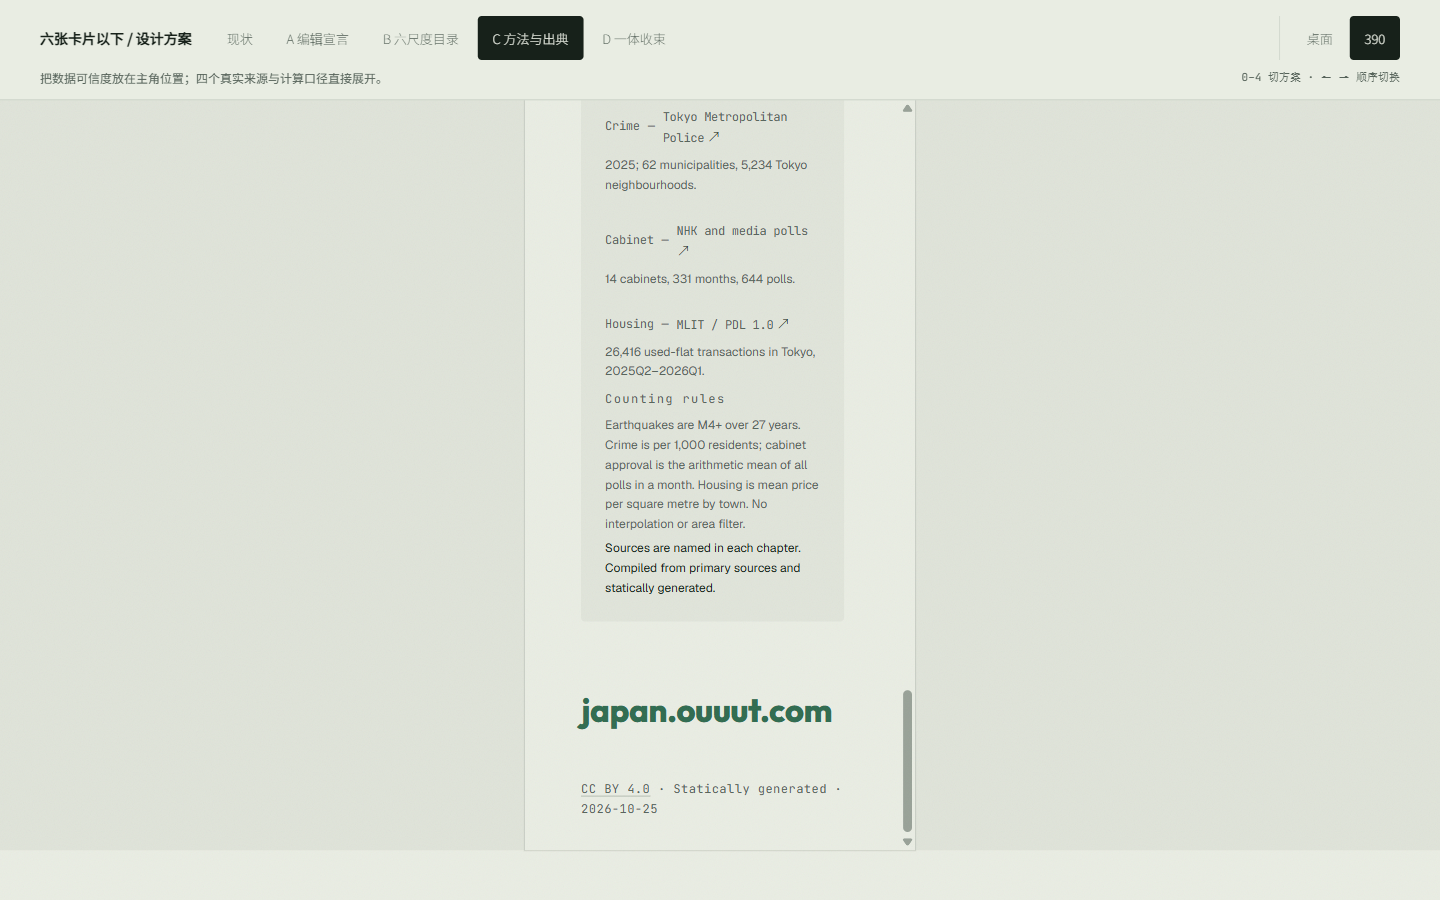
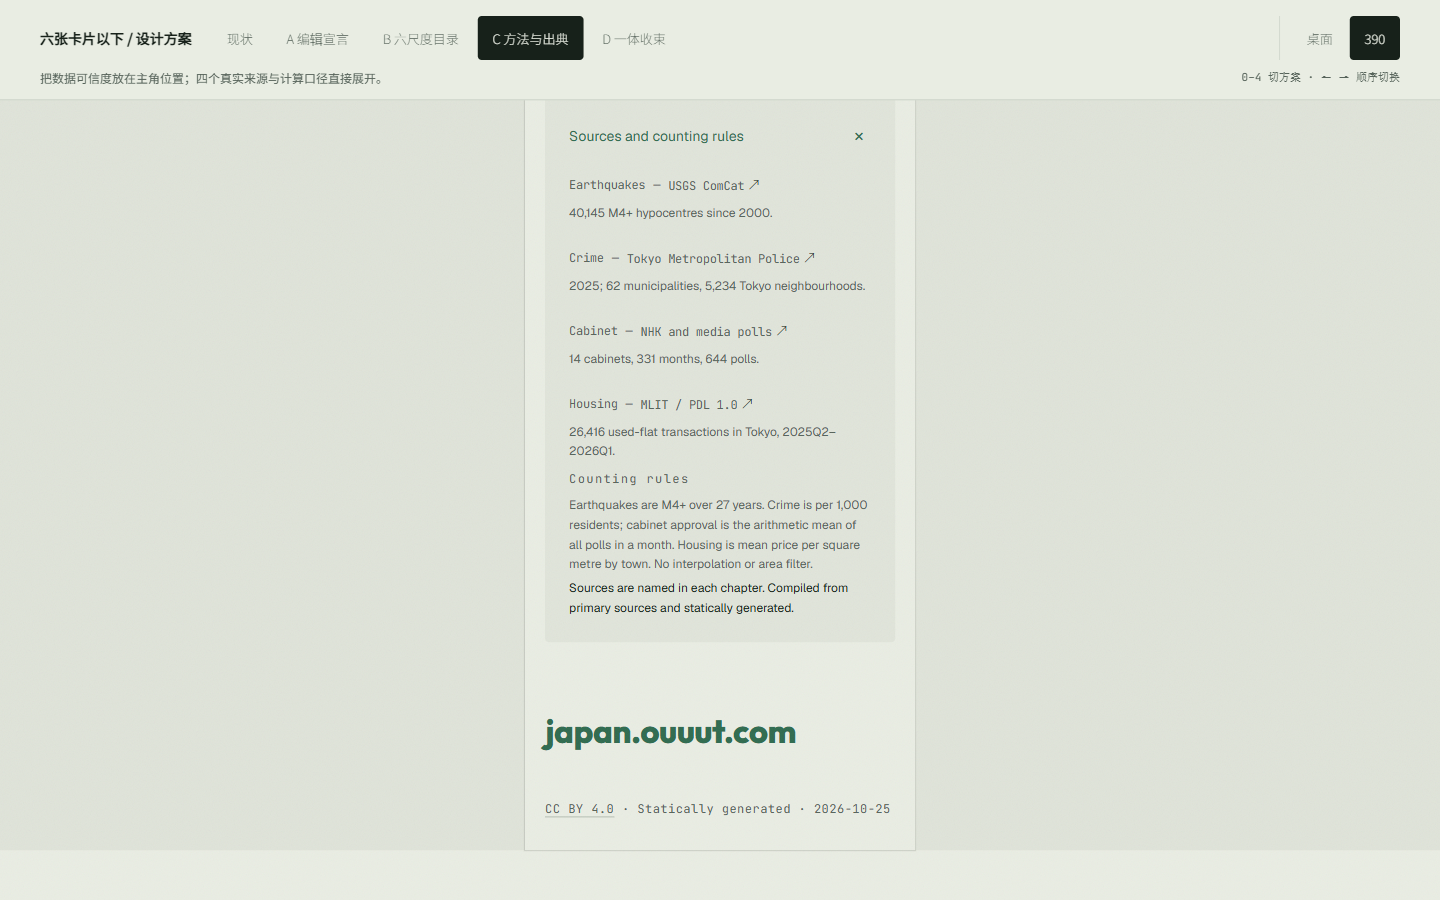
preview: match framed 390 layout to a real phone viewport
The second read-only review confirmed the default entry, title faces,
frame menu and production isolation, but found viewport-relative gutters
still resolved against the desktop window in the 390 frame.

Pin the frame's content gutter to the real phone's 20px, use the existing
non-default hidden scrollbar form so the frame content stays 390px wide,
and align its in-frame menu to the same edge. Verified frame/client widths
390/390, baseline title 28.08px against 28.0958px at a real 390 viewport,
and a real menu-to-English interaction. Production remains untouched.

Changed region(s): [[0.375, 0.1244, 0.5938, 0.6844], [0.375, 0.7778, 0.6562, 0.9333], [0.375, 0.7778, 0.5938, 0.84]]

diff --git a/design-previews/closing-options/lab.css b/design-previews/closing-options/lab.css
@@ -50,13 +50,16 @@
   min-height: 480px;
   overflow-x: clip;
   overflow-y: auto;
+  scrollbar-width: none;
   box-shadow: 0 0 0 1px color-mix(in srgb, var(--ink) 12%, transparent);
 }
+.lab-viewport.is-mobile::-webkit-scrollbar { display: none; }
+.lab-viewport.is-mobile .wrap { padding-inline: 20px; }
 .lab-viewport.is-mobile > .masthead { position: sticky; top: 0; }
 .lab-viewport.is-mobile .mobile-menu {
   position: absolute;
   top: 64px;
-  right: 15px;
+  right: 0;
   bottom: auto;
   left: 0;
   height: calc(100% - 64px);
@@ -296,8 +299,8 @@ html[lang="zh"] .lab-design .oc-d-title {
 }
 @container home (max-width: 640px) {
   .lab-viewport .hp-scales { margin-top: 20px; padding-top: 16px; }
-  .lab-viewport .hp-scales h1 { font-size: clamp(28px, 7.6vw, 38px); line-height: 1.2; }
-  html[lang="ja"] .lab-viewport .hp-scales h1, html[lang="zh"] .lab-viewport .hp-scales h1 { font-size: 28px; line-height: 1.28; }
+  .lab-viewport .hp-scales h1 { font-size: clamp(28px, 7.6cqw, 38px); line-height: 1.2; }
+  html[lang="ja"] .lab-viewport .hp-scales h1, html[lang="zh"] .lab-viewport .hp-scales h1 { font-size: clamp(26px, 7.2cqw, 34px); line-height: 1.28; }
   .lab-viewport .hp-scales-lede { font-size: 15px; line-height: 1.9; }
   .lab-viewport .hp-entry { grid-template-columns: 1fr; grid-template-rows: auto auto auto; grid-template-areas: "head" "visual" "body"; gap: 10px; padding: 16px; }
   .lab-viewport .hp-entry-visual { aspect-ratio: 1000 / 680; height: auto; min-height: 0; }

diff --git a/progress.md b/progress.md
@@ -532,3 +532,4 @@
 - 修复:无效 hash 统一回退 A 并规范化地址;390 改为**固定高度、内部滚动的手机框**,菜单 `position:absolute` 限制在框内,顶栏用容器宽度约束品牌与工具区;英文标题仅在本预览四个候选上用精确选择器恢复 `var(--serif)` / 400,日/中明确用 JP/SC 字体栈 / 300。未动全站字体策略与首页。
 - 实测:无 hash、#x 均一个可见 A、控制器 ready;四个英文标题计算字体 Instrument Serif / 400,字体文件 loaded;390 容器溢出 0,真实点击汉堡→框内菜单→EN 成功。截图与 `report.json` 已重生成;过程旧报告移至归档,不再作为最终证据。只读第二轮复核已派,尚未返回。
 - 收口记录:预览与三项核验坑已写 retain(首次读回为相关条目,非原文);过期报告/截图/重复生成 HTML 移至 `F:/archive/20261025-panout-closing-preview-stale/`;Axe 未安装,未宣称全套无障碍通过;未部署/未 push。修复提交 `f3f812e`,只读第二轮复核尚未返回。
+- 第二轮只读复核:默认入口、框内菜单、三语字体、展开状态与生产隔离均通过;另指出 390 框内 `vw` 仍按桌面视口解析(边距 56px、现状标题 38px)且滚动条占 15px,非真机保真。修复:390 框内容 `.wrap` 固定 20px 内边距、框内滚动条按项目允许的非默认形态隐藏使 clientWidth 回到 390、菜单右缘同步归零。实测框 390/client 390、现状标题 28.08px 对真实 390 的 28.0958px,内边距均 20px,品牌完整、菜单真实点击切 EN 成功。

diff --git a/design-previews/closing-options/README.md b/design-previews/closing-options/README.md
@@ -45,7 +45,7 @@ cd site && python -m http.server 8900
 - B：六条尺度、四个真实入口；天气与新闻没有伪链接。
 - 三语逐文案键匹配；sage/dark 的计算色确实切换。
 - A/B/C/D 出典按钮展开/收起与 `aria-expanded`、内容可见性一致；图标不旋转、无旋转外接盒溢出。
-- 390 容器内的汉堡按钮真实可点击，菜单在框内展开，语言切换可用。
+- 390 容器内的汉堡按钮真实可点击，菜单在框内展开，语言切换可用；内容区与真实 390 视口同为 20px 内边距，现状标题 28.08px / 28.10px，品牌不截断。
 - `report.json` 与 `screenshots/` 为修复后的证据。未宣称跨浏览器或 axe 全套通过。
 
 选择后，再将选定的单方案移植到 `src/build.py`、`src/home-preview.css` 与页脚实现；对照台不直接作为生产页发布。
